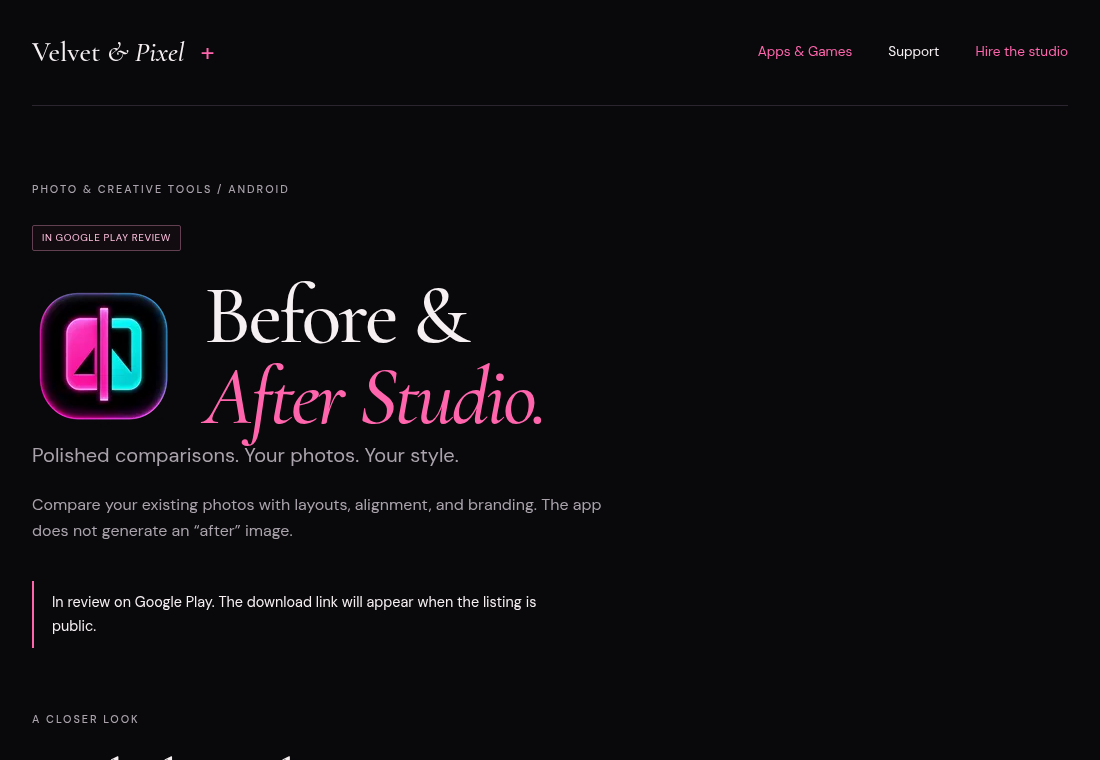
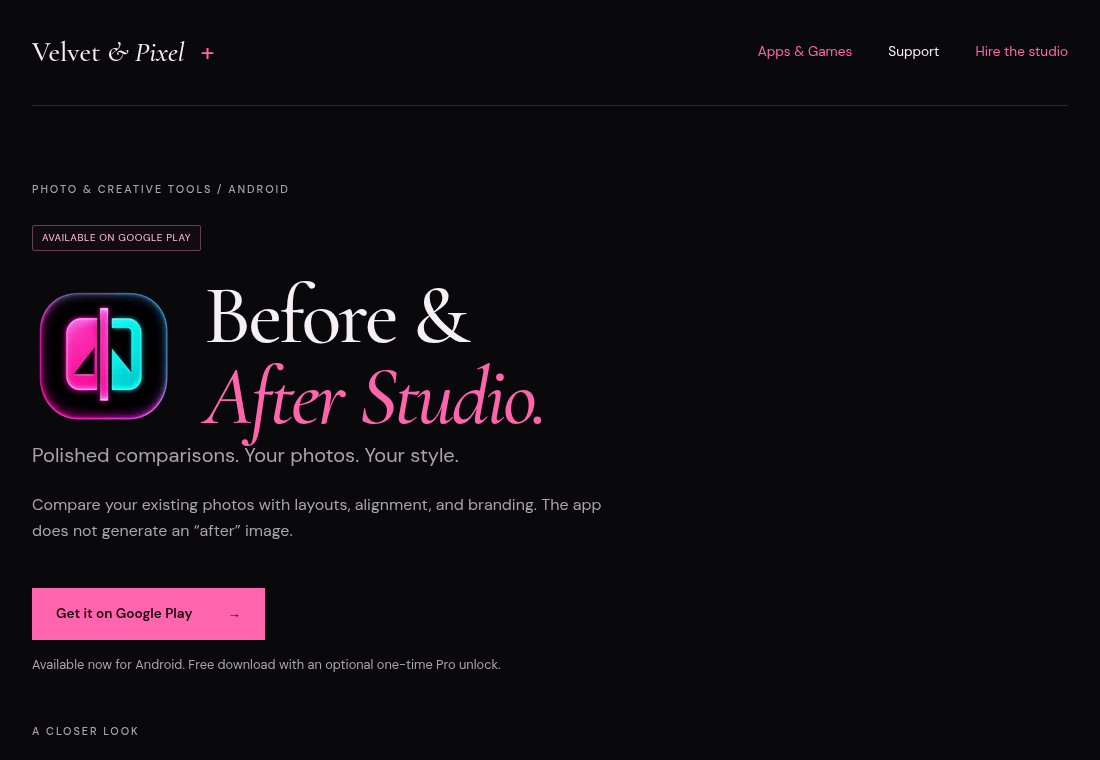
Announce Before & After Studio release and link to Google Play

diff --git a/src/styles/global.css b/src/styles/global.css
@@ -1194,5 +1194,37 @@ p {
 }
 
 /* Preserve the supplied landscape banner and all lettering. */
-.app-art.app-art-image.wheres-my-stuff { aspect-ratio: 2 / 1; background: #000; }
-.app-art-image.wheres-my-stuff > img { position: absolute; inset: 0; width: 100%; height: 100%; object-fit: contain; }
+.app-art.app-art-image.wheres-my-stuff {
+  aspect-ratio: 2 / 1;
+  background: #000;
+}
+.app-art-image.wheres-my-stuff > img {
+  position: absolute;
+  inset: 0;
+  width: 100%;
+  height: 100%;
+  object-fit: contain;
+}
+
+.app-store-link {
+  margin: 4px 0 20px;
+  gap: 16px;
+  font-size: 0.85rem;
+  padding: 16px 20px;
+}
+.product-download {
+  margin-top: 28px;
+}
+.product-download .fine {
+  margin: 14px 0 0;
+}
+@media (max-width: 760px) {
+  .app-store-link,
+  .product-download .button {
+    display: flex;
+    width: 100%;
+    justify-content: space-between;
+    font-size: 0.85rem;
+    padding-inline: 16px;
+  }
+}

diff --git a/src/data/apps.ts b/src/data/apps.ts
@@ -35,7 +35,11 @@ export interface App {
   slug: string;
   name: string;
   status:
-    "In Google Play review" | "Coming Soon" | "In Development" | "Planned";
+    | "Available on Google Play"
+    | "In Google Play review"
+    | "Coming Soon"
+    | "In Development"
+    | "Planned";
   category: string;
   categoryId: CategoryId;
   platform: "Android";
@@ -63,7 +67,9 @@ export const apps: App[] = [
   {
     slug: "before-after-studio",
     name: "Before & After Studio",
-    status: "In Google Play review",
+    status: "Available on Google Play",
+    storeUrl:
+      "https://play.google.com/store/apps/details?id=com.velvetandpixel.beforeafterstudio",
     category: "Photo & Creative Tools",
     categoryId: "photo-apps",
     platform: "Android",

diff --git a/README.md b/README.md
@@ -112,3 +112,8 @@ The footer links to `/privacy/`, an alphabetical directory of all published app 
 ## Where’s My Stuff?
 
 The product page is `/apps/wheres-my-stuff/`. Owner-confirmed name: Where’s My Stuff? (the older supplied “Where Is It?” headers are not used). Added November 11, 2026 from the VP Drive project’s Demo pics folder and current `where-is-it` README/HANDOFF. Real preview screenshots and approved icon live in `src/assets/wheres-my-stuff/`. The YouTube demo is linked without an embedded player. The app is In Development; no store URL, release date or final price is asserted. It appears under Everyday Tools and in the homepage’s recent-project cards. A privacy policy should be added once finalized; none is invented for this page.
+
+
+## Before & After Studio release
+
+The owner confirmed the public Play release on November 14, 2026. The verified listing is `https://play.google.com/store/apps/details?id=com.velvetandpixel.beforeafterstudio`, configured in `src/data/apps.ts`. Its product page and reusable homepage/catalog cards link directly to Google Play. The case-study label and software structured data reflect availability. Other apps retain their existing development statuses and have no store links. No ratings or download counts are claimed.
